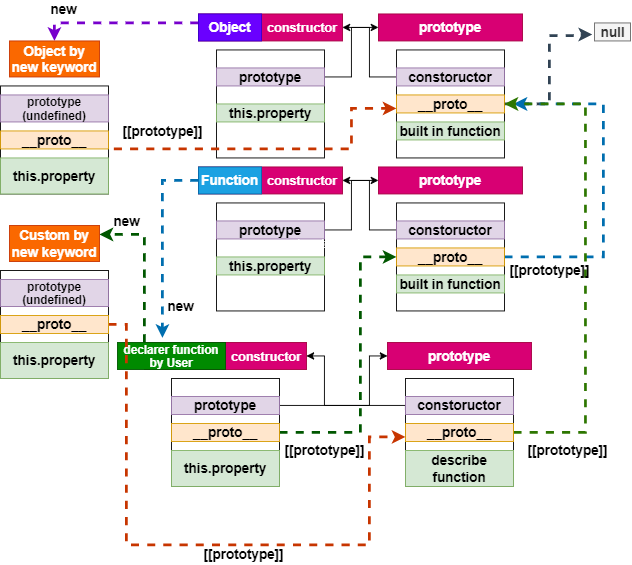
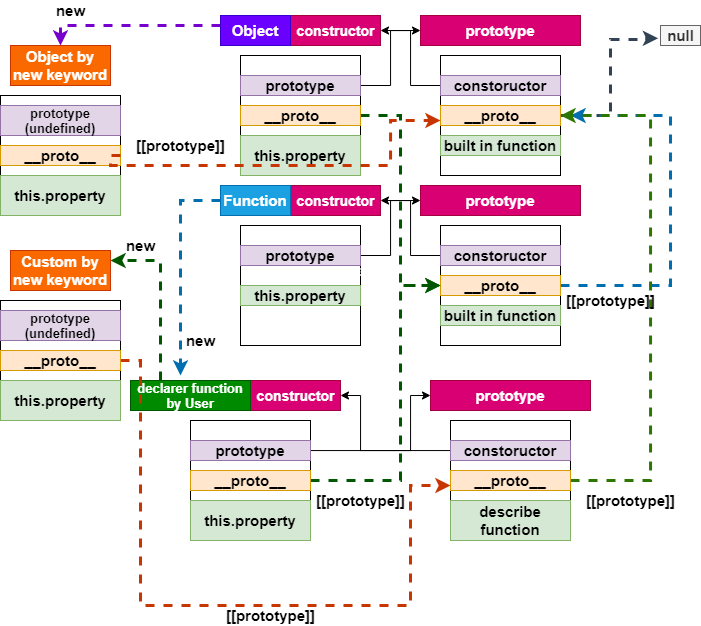
function README [U]

diff --git a/Modern JS/JS_Function.md b/Modern JS/JS_Function.md
@@ -78,8 +78,8 @@
 - Argumetns 객체는 인수 목록과 연동되어 **arguments 값을 바꾸면 인수도 바뀐다.**
     ```js
       (function(x,y){
-          arguments[0] = 55;
-          console.log(x, y); // 55, 2
+        arguments[0] = 55;
+        console.log(x, y); // 55, 2
       })(2,2);
     ```
 
@@ -91,9 +91,8 @@
   - 내부 슬롯을 직접 접근을 못하므로 **`__ proto __ 접근자 프로퍼티로` 접근을 한다.**
 - 즉, 프로토타입 객체는 다른 객체에 공유 프로퍼티를 제공하는 객체를 말한다.
 - **prototype 프로퍼티는 함수 객체만이 소유하는 프로퍼티이다.** (일반 객체에는 prototype 프로퍼티가 없다.)
-  - **해당 Object, Function은 리터럴 객체로 간주한다. (리터럴)**
-  - 만약 new Object()로 할경우 Object는 생성자 함수로 구현되어있기 때문에 Object.__ proto __ === Fucntion.prototype 을 가리키게 된다. ({}.__ proto __ === Object.prototype)
-
+  - 만약 new Object()로 할경우 Object는 생성자 함수로 구현되어있기 때문에 Object.__ proto __ === Fucntion.prototype 을 가리키게 된다. 
+  - Object로 생성된 인스턴스는 Object.prototype을 가리키게 된다.({}.__ proto __ === Object.prototype)
   - ![prototype](../image/function_object_prototype.png)
 
 ## prototype 객체 변경
@@ -183,20 +182,20 @@
 
 ### Ex. 실행 가능한 함수 [code]
 
-  ```js
-    var a = 'testA';
+```js
+  var a = 'testA';
 
-    function outterA() {
-      var b = 'testB';
+  function outterA() {
+    var b = 'testB';
 
-      function nestedB() {
-        var c = 'testC';
-        console.log(a,b,c);
-      }
-      nestedB();
+    function nestedB() {
+      var c = 'testC';
+      console.log(a,b,c);
     }
-    
-    outterA();
-  ```
+    nestedB();
+  }
+  
+  outterA();
+```
 
 ![EC, GO, AO](./../image/EC_stack.png)

diff --git a/README.md b/README.md
@@ -9,10 +9,11 @@
 
 - [JS Start](./Modern%20JS/JS_start.md)
   - Spec
-  - Statement vs Expressions
+  - Expressions vs Statement
   - Data Type
     - typeof 연산자의 반환 값
     - 산술 연산
+    - {} block statements VS object literal
     - ==, === 비교
   - function
   - object(instance)
@@ -32,7 +33,7 @@
     - [실행 컨텍스트 실행(처리) 순서]
     - [Ex. 실행 가능한 함수 [code]]
 
-- [Js Object]()
+- [Js Object](./Modern%20JS/JS_Object.md)
 
 **[위로](#javascript)**
 
